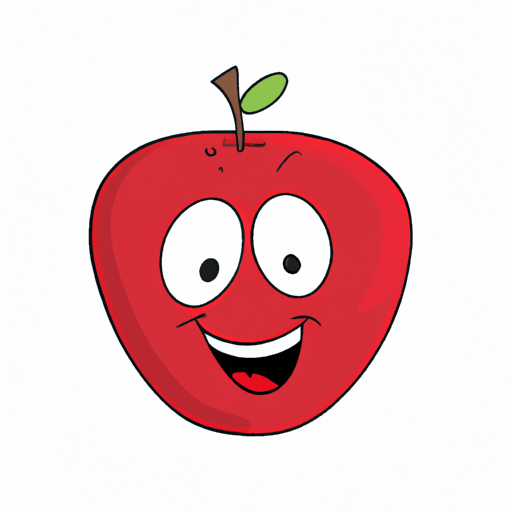
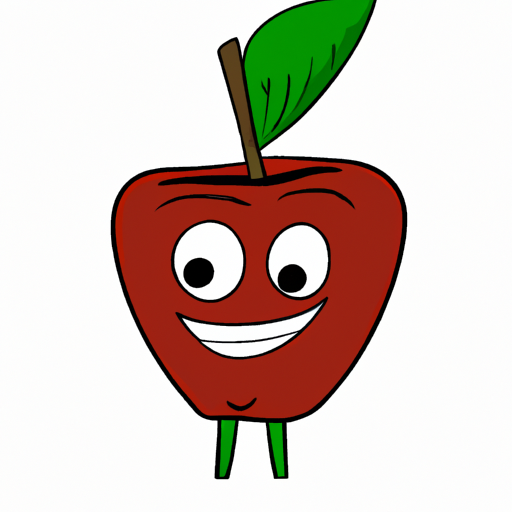
fixed some stuff in string parser and integrated it into main

diff --git a/main.py b/main.py
@@ -5,6 +5,8 @@ import numpy as np
 import pandas as pd
 
 import pytesseract
+import spacy
+from textblob import TextBlob
 
 from openai import OpenAI
 
@@ -16,21 +18,45 @@ def get_text_from_image(filename: str):
     text = pytesseract.image_to_string(img)
     return text
 
-def generate_subject_image(subject: str, filename=None) -> Image:
+def generate_subject_image(subject: str, 
+                           filename=None, 
+                           create_variation=False, 
+                           vary_img=None, 
+                           debug=False) -> Image:
     client = OpenAI(api_key="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")
     
-    prompt = "exactly one smiling cartoon " + subject
-    print(prompt)
-    response = client.images.generate(
-        model="dall-e-2",
-        prompt=prompt,
-        size="512x512",
-        quality="standard",
-        n=1,
-        response_format='b64_json',
-        style="natural"
-    )
-    
+    prompt = "exactly one singular cartoon " + subject
+    if debug:
+        print(prompt)
+    if create_variation:
+        # Converting the image object into bytes array
+        img_byte_arr = BytesIO()
+        vary_img.save(img_byte_arr, format='PNG')
+        vary_img = img_byte_arr.getvalue()
+        
+        if debug:
+            print("Creating a variation...")
+            
+        response = client.images.create_variation(
+            image=vary_img,
+            model="dall-e-2", 
+            size="512x512",
+            n=1,
+            response_format='b64_json',
+        )
+    else:
+        if debug:
+            print("Creating a new image...")
+        response = client.images.generate(
+            model="dall-e-2",
+            prompt=prompt,
+            size="512x512",
+            quality="standard",
+            n=1,
+            response_format='b64_json',
+            style="natural"
+        )
+        
     image_data = response.data[0].b64_json
     
     im_bytes = base64.b64decode(image_data)   # im_bytes is a binary image
@@ -81,31 +107,109 @@ def combine_images_vertically(image1: Image, image2: Image) -> Image:
     newImg = np.concatenate([img1, img2], axis=0)
     return Image.fromarray(newImg)
 
-def generate_image(data: pd.DataFrame):
+def generate_image(data: dict, debug=False):
+    for key in data.keys():
+        data[key] = data[key].strip()
+    
     if data['Type'] == "And":
         # Janet has 5 apples and 6 bananas in her basket. How many fruits does she have in total?
-        subject_img1 = generate_subject_image(data['Subject1'])
-        subject_img2 = generate_subject_image(data['Subject2'])
+        subject_img1 = generate_subject_image(data['Subject1'], debug=debug)
+        if data['Subject1'] == data['Subject2']:
+            subject_img2 = generate_subject_image(data['Subject2'], 
+                                                  create_variation=True, 
+                                                  vary_img=subject_img1, 
+                                                  debug=debug)    
+        else:
+            subject_img2 = generate_subject_image(data['Subject2'], debug=debug)
         
-        multiplied1 = multiply_subject_image(subject_img1, data['Quantity1'])
-        multiplied2 = multiply_subject_image(subject_img2, data['Quantity2'])
+        multiplied1 = multiply_subject_image(subject_img1, mult=int(data['Quantity1']))
+        multiplied2 = multiply_subject_image(subject_img2, mult=int(data['Quantity2']))
         
         combined = combine_images_vertically(multiplied1, multiplied2)
         img = add_question_band(combined, data['Question'])
         return img
-    if data['Type'] == "more":
+    
+    if data['Type'] == "More":
         # Janet has 6 apples more than Ellin. Ellin has 3 apples. How many apples does Janet have?
         subject_img1 = generate_subject_image(data['Subject1'])
-        subject_img1 = multiply_subject_image(subject_img1, mult=data['Quantity1'])
+        if data['Subject1'] == data['Subject2']:
+            subject_img2 = generate_subject_image(data['Subject2'], 
+                                                  create_variation=True, 
+                                                  vary_img=subject_img1, 
+                                                  debug=debug)    
+        else:
+            subject_img2 = generate_subject_image(data['Subject2'])
+            
+        subject_img1 = multiply_subject_image(subject_img1, mult=int(data['Quantity1']))
         subject_img1 = add_question_band(subject_img1, "more than")
         
-        subject_img2 = generate_subject_image(data['Subject2'])
-        subject_img2 = multiply_subject_image(subject_img2, mult=data['Quantity2'])
+        subject_img2 = multiply_subject_image(subject_img2, mult=int(data['Quantity2']))
         
         combined = combine_images_vertically(subject_img1, subject_img2)
-        img = add_question_band(combined, "How many apples does Janet have?")
+        img = add_question_band(combined, data['Question'])
         return img
-        
 
-            
+def andrew_function(question: str, operation: str, problem_type: str): 
+    output = {"Question":"", "Subject1":"", "Quantity1":"", "Subject2":"", "Quantity2":"", "Operation":"", "Type":""}
+    output["Operation"] = operation
+    output["Type"] = problem_type
+
+    NER = spacy.load("en_core_web_sm")
+    
+    doc = NER(question)
+
+    sents = [] 
+    subject = ""
+    for sent in doc.sents: 
+
+        sents.append(sent)
+    output["Question"] = sents[-1].text
+    for sent in sents[:len(sents)-1]:
+        for token in sent:
+            if (("subj" in token.dep_) or ("dobj" in token.dep_)):
+                subtree = list(token.subtree)
+                start = subtree[0].i
+                end = subtree[-1].i + 1
+                adj = ""
+                contains_num = [True if "NUM" == token.pos_ else False for token in doc[start:end]]
+                contains_noun = [True if "NOUN" == token.pos_ else False for token in doc[start:end]]
+                k = 0 
+                seg1 = doc[start:end]
+                seg2 = ""
+                for token in doc[start:end]:
+                    if (token.pos_ == "CCONJ"): 
+                        if True in [True if "NUM" == token.pos_ else False for token in doc[k+1:]]: 
+                            seg1 = doc[start:k]
+                            seg2 = doc[k+1:]
+                    k += 1 
+                for seg in (seg1, seg2): 
+                    if seg: 
+                        if ((True in contains_num) and (True in contains_noun)):
+                            for token in seg[:contains_noun.index(True)+1]:
+                                if (token.pos_ == "NUM"): 
+                                    if output["Quantity1"] == "":
+                                        #print("first quantity:" +token.text)
+                                        output["Quantity1"] = token.text
+                                    else: 
+                                        #print("second quantity:" +token.text)
+                                        output["Quantity2"] = token.text
+                                if ((token.pos_ == "ADJ") and (token.text != "more")): 
+                                    adj = token.text + " "
+                                if ((token.pos_ == "NOUN")):   # filter to only nouns 
+                                    # Singularize token subjects
+                                    if token.tag_ == "NNS":
+                                        subject = adj + TextBlob(token.text).words[0].singularize()
+                                    else:
+                                        subject = adj + token.text
+                                    if output["Subject1"] == "":
+                                        #print("first subject:" +subject)
+                                        output["Subject1"] = subject
+                                    else: 
+                                        #print("second subject:" +subject)
+                                        output["Subject2"] = subject
+                                    adj = ""
+    if output["Subject2"] == "": 
+        output["Subject2"] = subject
+
+    return output 
     

diff --git a/string_parser.py b/string_parser.py
@@ -1,17 +1,21 @@
-def andrew_function(question, operation, problem_type): 
+import spacy
+from textblob import TextBlob
+def andrew_function(question: str, operation: str, problem_type: str): 
     output = {"Question":"", "Subject1":"", "Quantity1":"", "Subject2":"", "Quantity2":"", "Operation":"", "Type":""}
-    output["Question"] = question
     output["Operation"] = operation
     output["Type"] = problem_type
 
+    NER = spacy.load("en_core_web_sm")
+    
     doc = NER(question)
 
     sents = [] 
     subject = ""
     for sent in doc.sents: 
+
         sents.append(sent)
+    output["Question"] = sents[-1].text
     for sent in sents[:len(sents)-1]:
-        print(sent)
         for token in sent:
             if (("subj" in token.dep_) or ("dobj" in token.dep_)):
                 subtree = list(token.subtree)
@@ -22,7 +26,6 @@ def andrew_function(question, operation, problem_type):
                 contains_noun = [True if "NOUN" == token.pos_ else False for token in doc[start:end]]
                 k = 0 
                 seg1 = doc[start:end]
-                print(seg1)
                 seg2 = ""
                 for token in doc[start:end]:
                     if (token.pos_ == "CCONJ"): 
@@ -42,9 +45,13 @@ def andrew_function(question, operation, problem_type):
                                         #print("second quantity:" +token.text)
                                         output["Quantity2"] = token.text
                                 if ((token.pos_ == "ADJ") and (token.text != "more")): 
-                                    adj = token.text
+                                    adj = token.text + " "
                                 if ((token.pos_ == "NOUN")):   # filter to only nouns 
-                                    subject = adj+" "+token.text
+                                    # Singularize token subjects
+                                    if token.tag_ == "NNS":
+                                        subject = adj + TextBlob(token.text).words[0].singularize()
+                                    else:
+                                        subject = adj + token.text
                                     if output["Subject1"] == "":
                                         #print("first subject:" +subject)
                                         output["Subject1"] = subject
